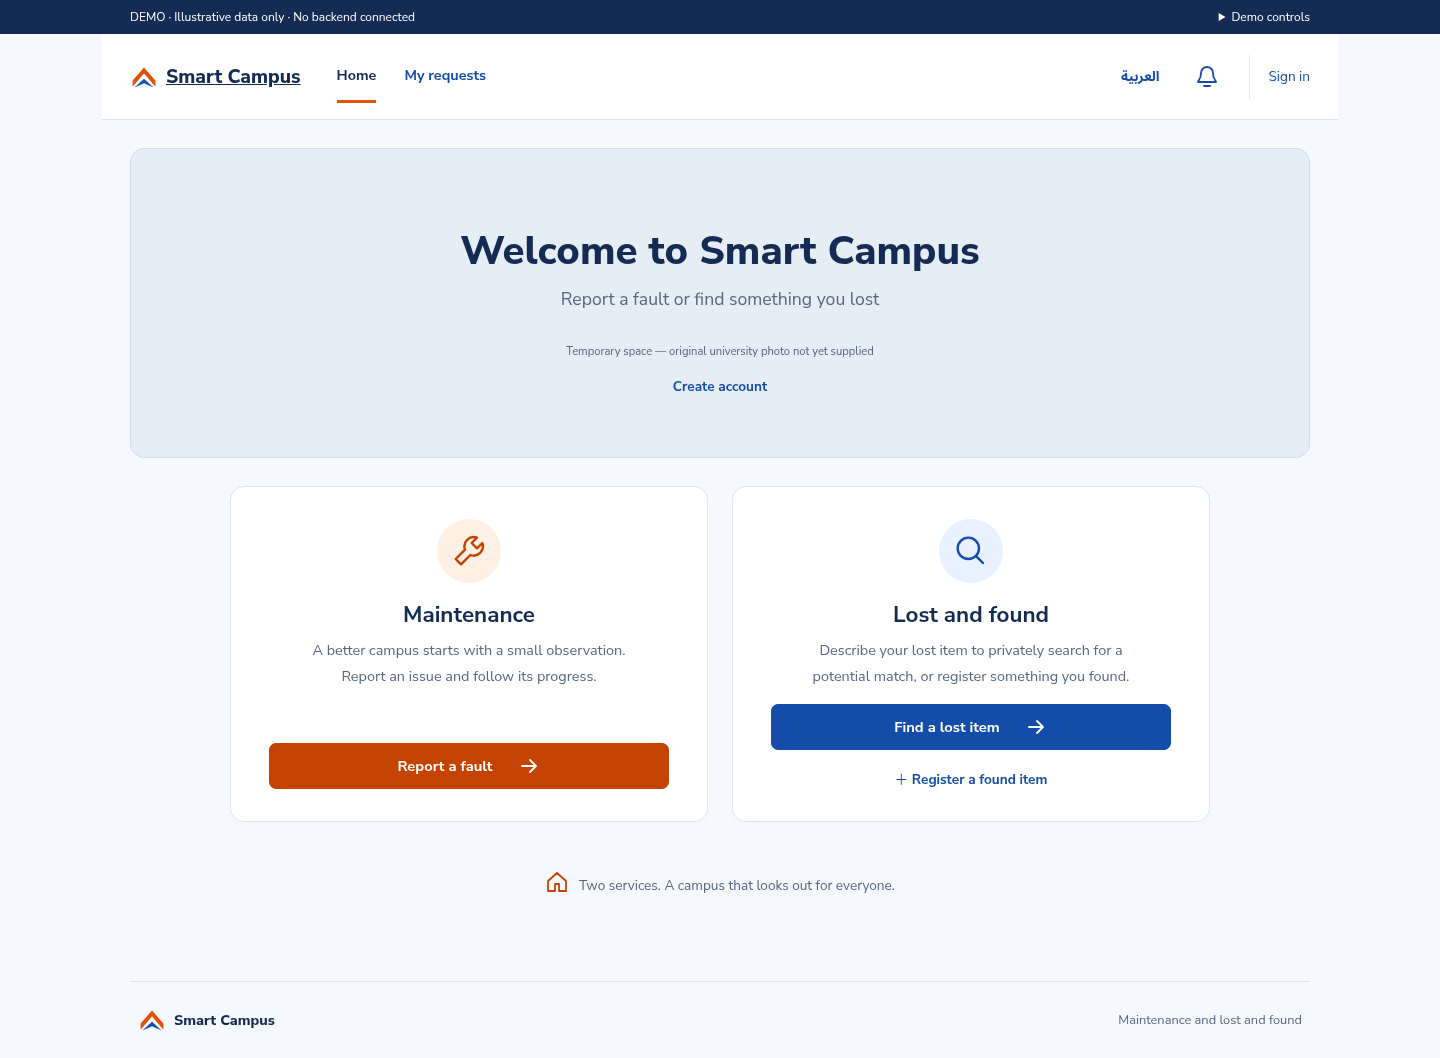
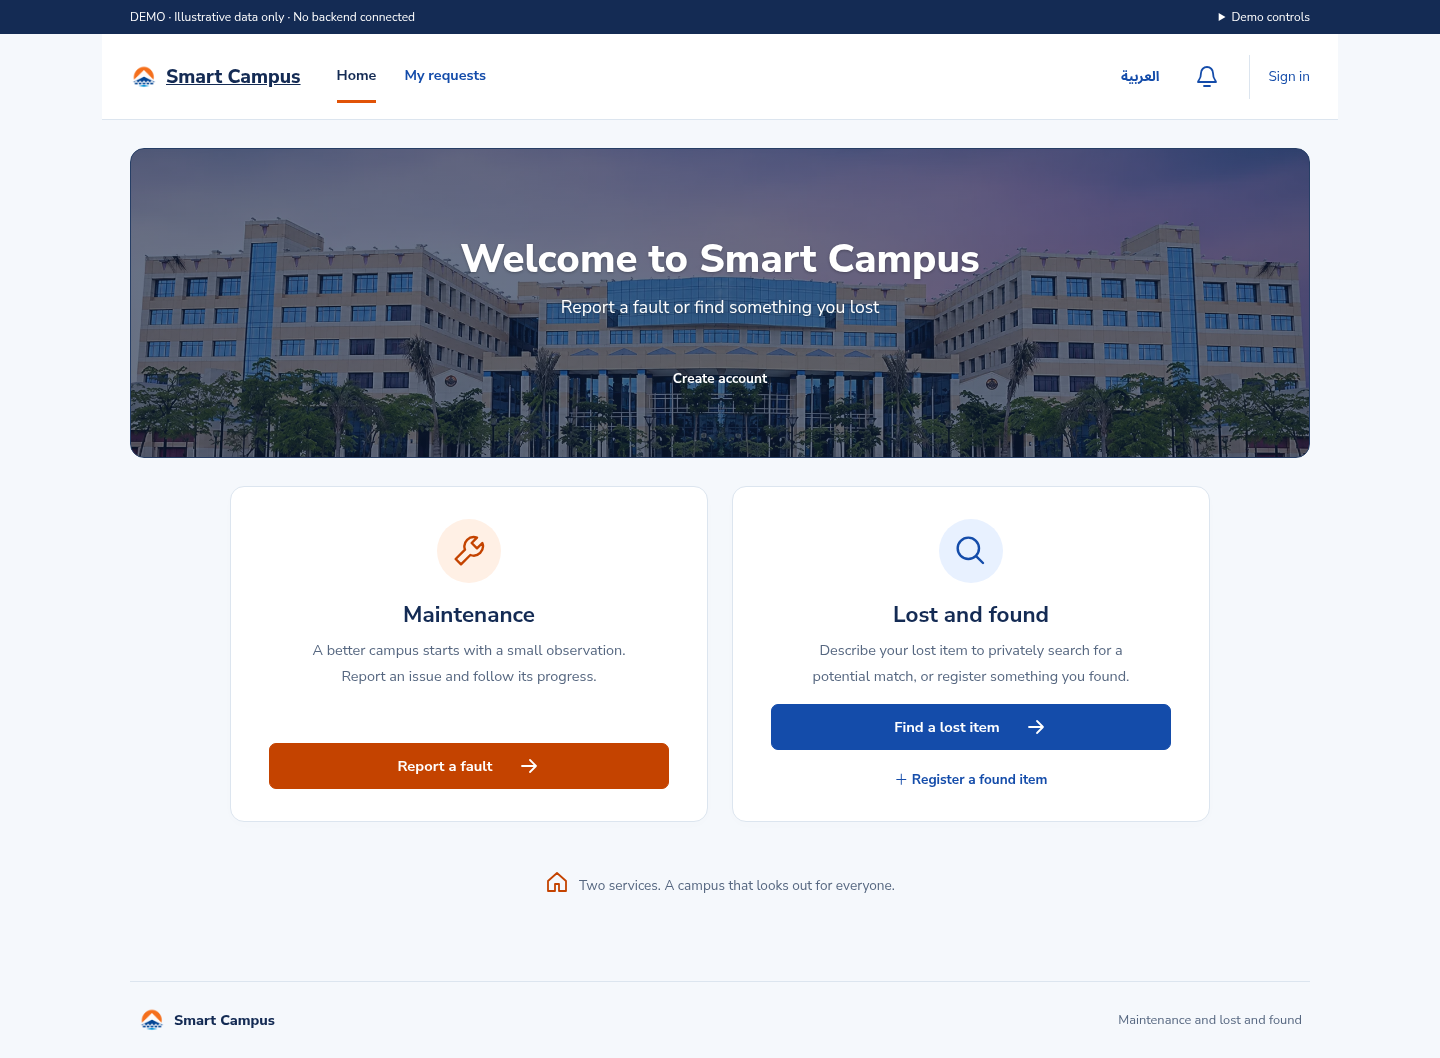
Use O6U branding and campus photo

Changed region(s): [[0.0625, 0.1248, 0.9375, 0.4367], [0.0938, 0.9357, 0.125, 0.9669], [0.0938, 0.0624, 0.125, 0.0936]]

diff --git a/src/styles/app.css b/src/styles/app.css
@@ -121,6 +121,13 @@ p {
   white-space: nowrap;
   color: var(--navy);
 }
+.brand-mark {
+  display: block;
+  width: 28px;
+  height: 28px;
+  object-fit: contain;
+  flex: 0 0 auto;
+}
 .brand-symbol {
   font-size: 2rem;
   color: #e15307;
@@ -175,50 +182,43 @@ main {
 }
 .hero {
   min-height: 310px;
-  background: #e5edf5;
+  background-color: #142b54;
+  background-image:
+    linear-gradient(rgba(12, 29, 61, 0.62), rgba(12, 29, 61, 0.62)),
+    url("../assets/campus-photo.webp");
+  background-position: center 54%;
+  background-size: cover;
   position: relative;
   padding: 48px 8%;
   overflow: hidden;
-  border: 1px solid #d2deec;
+  border: 1px solid #263e65;
   border-radius: var(--radius);
   display: flex;
   flex-direction: column;
   justify-content: center;
   text-align: center;
-}
-.hero:before,
-.hero:after {
-  content: "";
-  position: absolute;
-  bottom: -100px;
-  width: 320px;
-  height: 240px;
-  border: 1px solid #b6c7dc;
-  border-radius: 50%;
-  pointer-events: none;
-}
-.hero:before {
-  left: -110px;
-}
-.hero:after {
-  right: -110px;
+  color: #fff;
 }
 .hero h1 {
   margin: 12px 0 4px;
+  color: inherit;
+  text-shadow: 0 1px 3px rgba(0, 0, 0, 0.28);
 }
 .hero p {
   font-size: 1.1rem;
   margin-bottom: 28px;
+  color: inherit;
+  text-shadow: 0 1px 3px rgba(0, 0, 0, 0.28);
+}
+.hero .text-link {
+  align-self: center;
+  color: inherit;
 }
 .eyebrow {
   font-size: 0.69rem;
   letter-spacing: 0.08em;
   font-weight: 800;
   color: #315a88;
-}
-.photo-note {
-  font-size: 0.7rem;
-  color: #52647c;
 }
 .services {
   display: grid;
@@ -722,10 +722,6 @@ dialog::backdrop {
   .actions .button {
     flex: 1;
   }
-  .hero .photo-note {
-    max-width: 240px;
-    margin: auto;
-  }
   .page-title h1 {
     font-size: 1.6rem;
   }
@@ -766,13 +762,6 @@ textarea {
 .stat strong,
 .data-table {
   font-variant-numeric: tabular-nums;
-}
-.hero:before,
-.hero:after {
-  display: none;
-}
-.hero .text-link {
-  align-self: center;
 }
 .auth-links {
   display: grid;

diff --git a/src/app/Home.tsx b/src/app/Home.tsx
@@ -19,12 +19,6 @@ export function Home() {
             "Report a fault or find something you lost",
           )}
         </p>
-        <span className="photo-note">
-          {t(
-            "مساحة مؤقتة — صورة الجامعة الأصلية لم تُرفق بعد",
-            "Temporary space — original university photo not yet supplied",
-          )}
-        </span>
         {account.role === "guest" && (
           <Link className="text-link" to="/register">
             {t("إنشاء حساب", "Create account")}

diff --git a/src/components/Icon.tsx b/src/components/Icon.tsx
@@ -24,9 +24,13 @@ export function Icon({ name }: { name: keyof typeof paths }) {
 }
 export function BrandMark() {
   return (
-    <svg aria-hidden="true" width="28" height="28" viewBox="0 0 32 32">
-      <path d="M3 20 16 5l13 15v7L16 12 3 27z" fill="#e15307" />
-      <path d="m5 28 11-10 11 10-11-5z" fill="#144caa" />
-    </svg>
+    <img
+      className="brand-mark"
+      src="/o6u-mark.png"
+      alt=""
+      aria-hidden="true"
+      width="28"
+      height="28"
+    />
   );
 }

diff --git a/README.md b/README.md
@@ -29,7 +29,7 @@ The Playwright configuration uses `PLAYWRIGHT_CHROMIUM_EXECUTABLE_PATH` if provi
 
 ## Cloudflare Pages deployment
 
-Production site: <https://smart-campus-frontend.pages.dev>. The Cloudflare Pages project is connected to this GitHub repository and deploys from `main`. Build command: `npm ci && npm run build`; output directory: `dist`; root directory: repository root. No build environment variables are required. Direct refresh of `/maintenance/new` was verified after deployment.
+Production site: <https://smart-campus-o6u.pages.dev>. The Cloudflare Pages project is connected to this GitHub repository and deploys from `main`. Build command: `npm ci && npm run build`; output directory: `dist`; root directory: repository root. No build environment variables are required. Direct refresh of `/maintenance/new` was verified after deployment.
 
 ## Backend handoff
 
@@ -37,4 +37,4 @@ There is no live API adapter yet. Proposed operation families, integration decis
 
 `npm run build` produces `dist/`. The current deployment is a static frontend demo; it does not provide real persistence, authentication or backend authorization.
 
-The real university photograph, final logo, production locations and departments, backend contract, session/upload policies and some workflow decisions remain outstanding. Demo locations, departments and statistics are illustrative. See `FRONTEND_COMPLETION_REPORT.md` for tested coverage and limitations.
+The supplied campus photograph and O6U emblem are now used in the homepage hero and site branding. Production locations and departments, backend contract, session/upload policies and some workflow decisions remain outstanding. Demo locations, departments and statistics are illustrative. See `FRONTEND_COMPLETION_REPORT.md` for tested coverage and limitations.

diff --git a/FRONTEND_COMPLETION_REPORT.md b/FRONTEND_COMPLETION_REPORT.md
@@ -93,7 +93,7 @@ The approved six-phase implementation plan is in `docs/superpowers/plans/2026-11
 | Focused selector regression | `npm run test:e2e -- --grep 'promoted demo admin edits'` | 0 | 1 test passed after adding the pre-save assertion. |
 | Development server | `npm run dev -- --port 5173` (Playwright web server) | Started | Browser suite used the Vite development server; this is not a production deployment. |
 | Production preview | `npm run preview -- --port 4173` | Started | Local `curl` checks returned HTTP 200 for `/` and `/maintenance/new`. Render was not used. |
-| Cloudflare Pages production deployment | Cloudflare Pages API deployment for `main` | Success | `https://smart-campus-frontend.pages.dev`; homepage and `/maintenance/new` returned HTTP 200. Playwright rendered the Arabic homepage and loaded the nested route with no page errors. |
+| Cloudflare Pages production deployment | Cloudflare Pages API deployment for `main` | Success | `https://smart-campus-o6u.pages.dev`; homepage and `/maintenance/new` returned HTTP 200. Playwright rendered the Arabic homepage and loaded the nested route with no page errors. |
 | Responsive screenshots | `node work/capture.cjs` | 0 | 18 representative screenshots captured at 390, 768 and 1440 px; inspected home, maintenance, search and admin at all three widths. |
 | Secret scan | Credential-pattern scan over source/docs/tests | 0 | No credential-shaped values found in repository files. Cloud credentials were not committed. |
 
